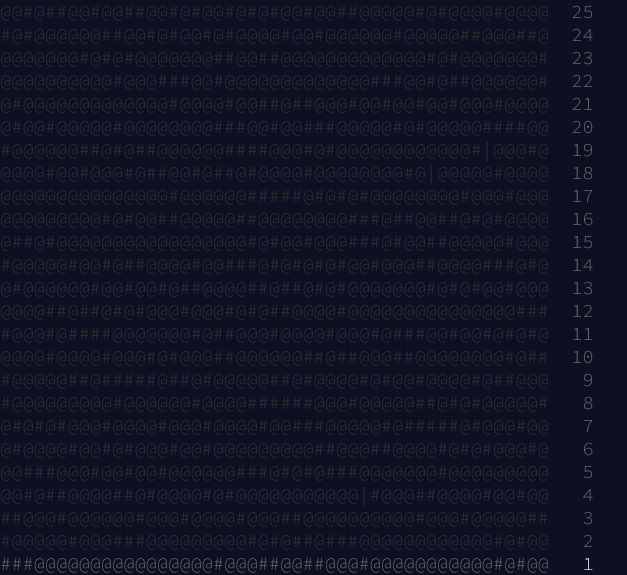
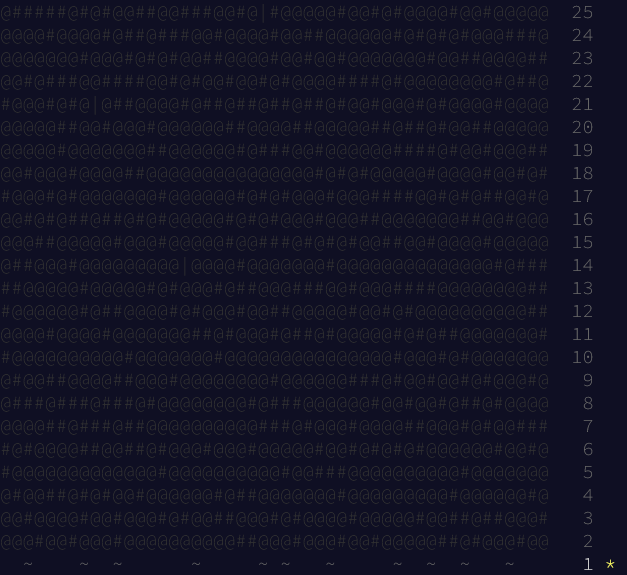
rust: solve 2022.01, part 1

diff --git a/2022/rust/src/aoc01.rs b/2022/rust/src/aoc01.rs
@@ -1,3 +1,4 @@
+use std::cmp::max;
 use std::io::Error;
 use std::num::ParseIntError;
 
@@ -18,7 +19,17 @@ fn solve(part: fn(&str) -> Result<i32, ParseIntError>, text: &str) {
 }
 
 fn part1(input: &str) -> Result<i32, ParseIntError> {
-    todo!()
+    let mut most_calories = 0;
+    let mut current_calories = 0;
+    for line in input.lines() {
+        if line.is_empty() {
+            most_calories = max(most_calories, current_calories);
+            current_calories = 0;
+        } else {
+            current_calories += line.parse::<i32>()?;
+        }
+    }
+    Ok(most_calories)
 }
 
 fn read_input() -> Result<String, Error> {

diff --git a/2022/README.md b/2022/README.md
@@ -24,7 +24,7 @@
 @@#@##@@@@##@#@@@@#@#@@@@@@@@@@@|#@@@##@@@@#@@#@@   4
 ##@@@#@@@@@@#@@@#@@@@#@@@##@@@@@@@@@@#@@@#@@@@@##   3
 #@@@@@#@@@###@@@@@@@@@#@#@##@###@@@@@@@@@@@@#@#@@   2
-###@@@@@@@@@@@@@@@@#@@@##@@##@@@#@@@@@@@@@@@#@#@@   1 **
+  ~    ~  ~      ~     ~ ~   ~     ~  ~  ~   ~      1 *
 ```
 
 ![Calendar](calendar.png)
